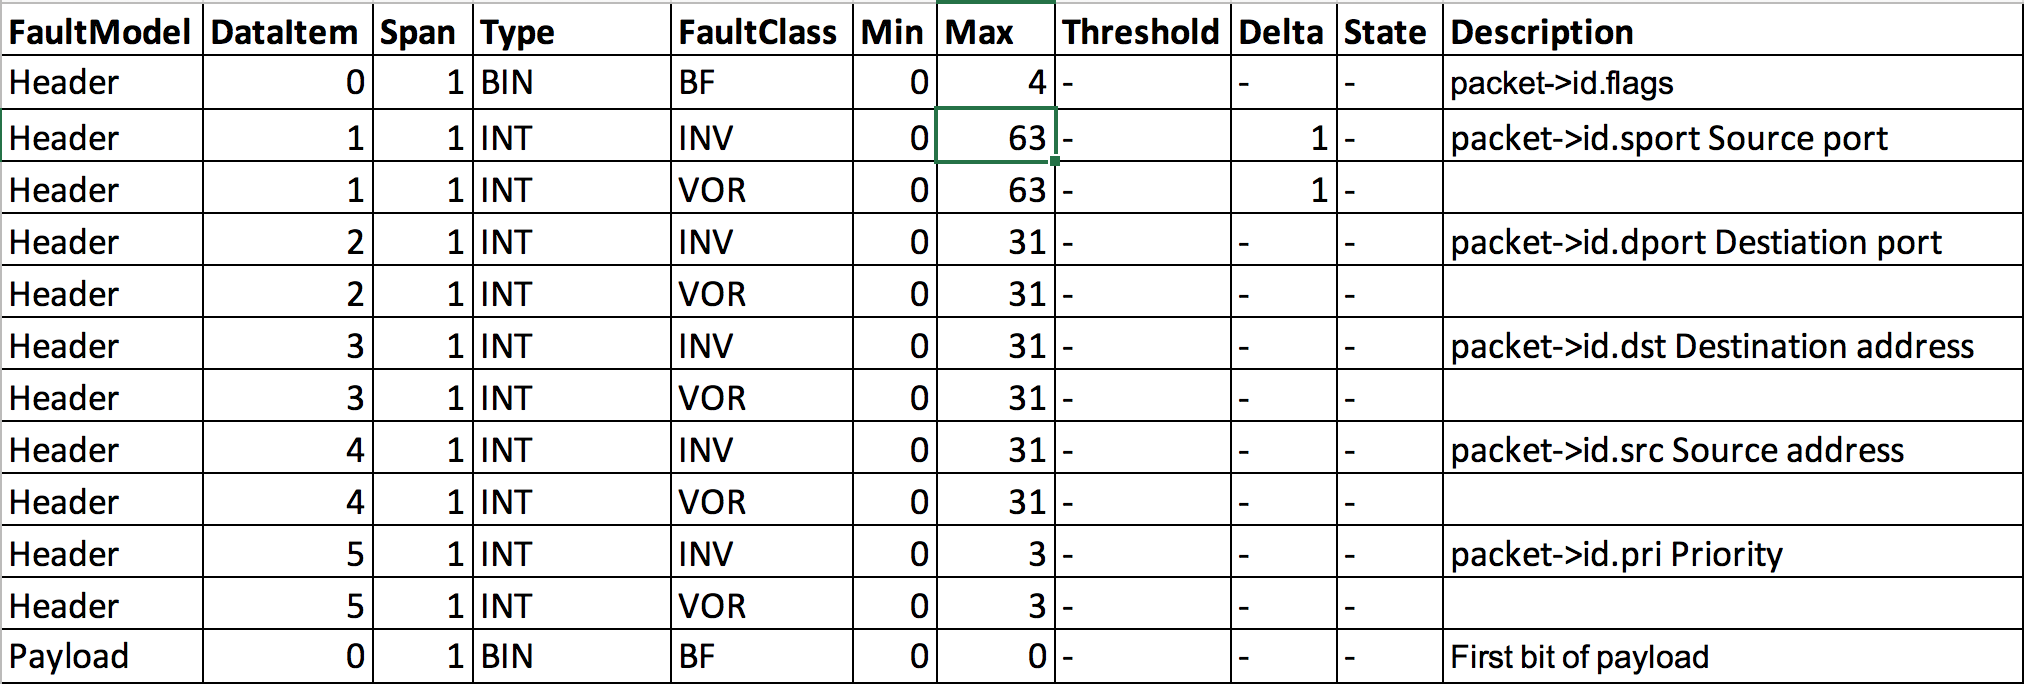
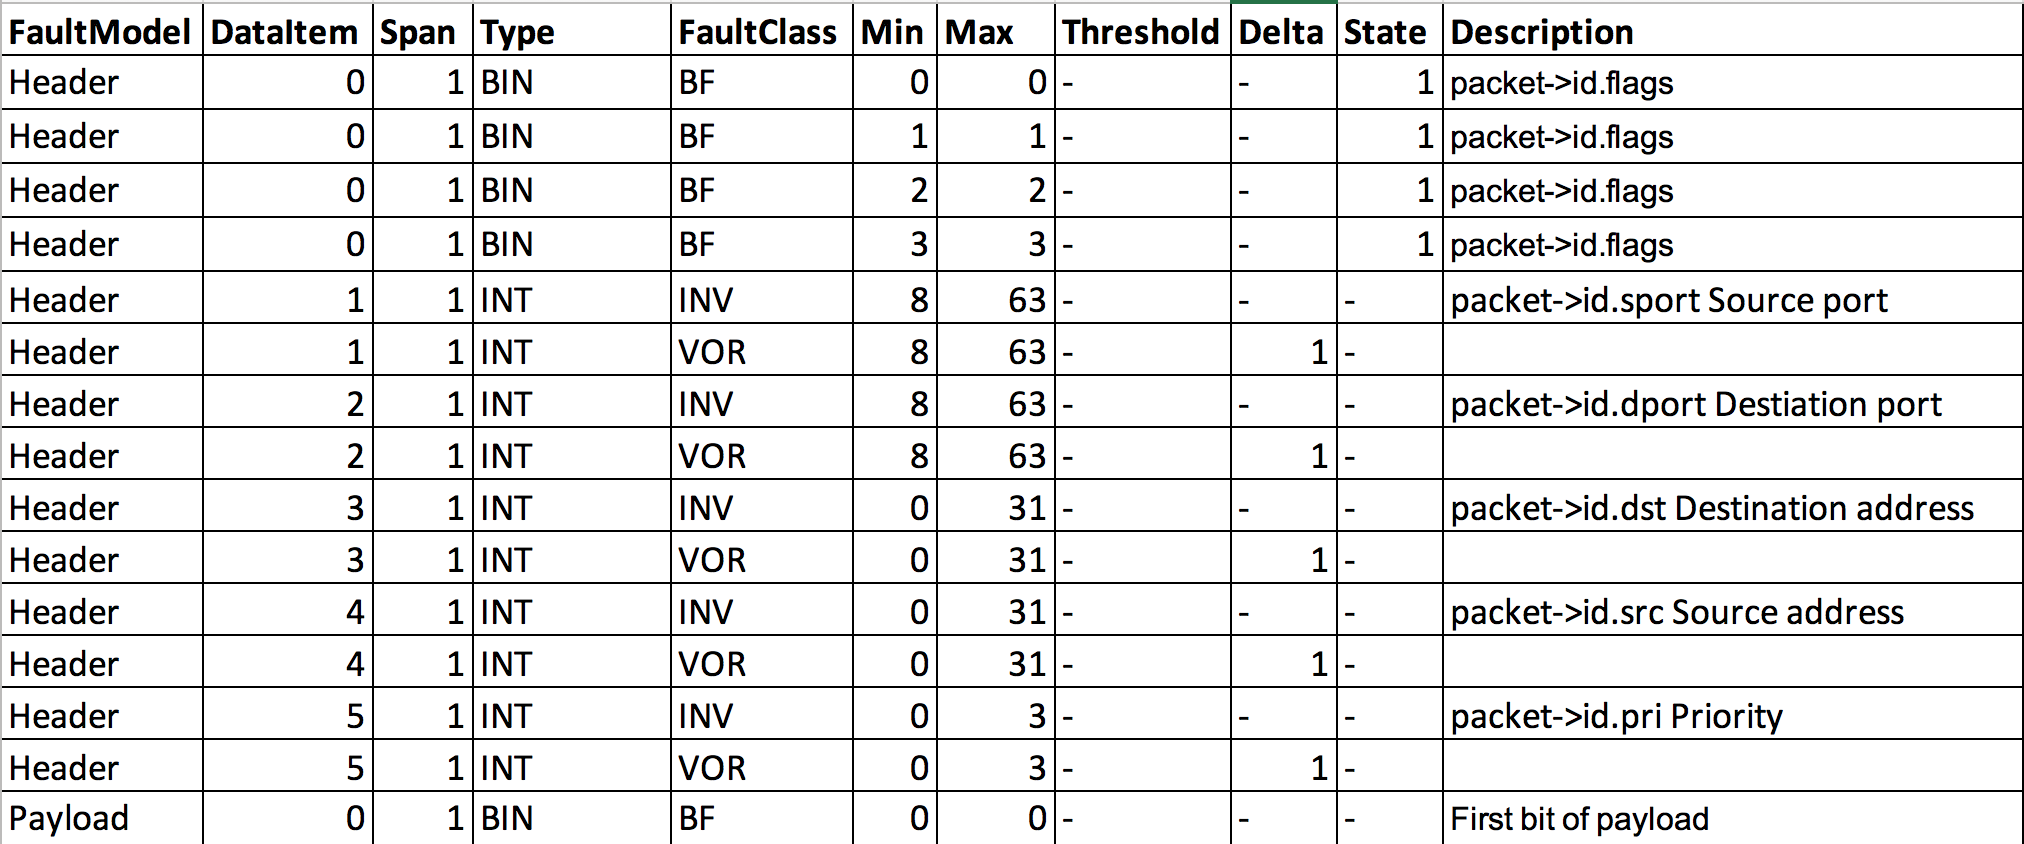
backup

diff --git a/reports/D2/caseStudies_GSL.tex b/reports/D2/caseStudies_GSL.tex
@@ -142,8 +142,8 @@ The data-driven mutation testing process in libgscsp will target the data packet
 \end{figure}
 
 Figure~\ref{fig:csp_faultmodel} introduces an example of the possible fault models to be applied during the data-driven mutation process.
-Fault models labeled \emph{Identifier} target the header of the packet, and \emph{Payload} targets the data of the packet.
-The \emph{Identifier} fault model include mutation operators such as bit-flips (BF), insertion of invalid values (INV), insertion of values out of range (VOR), and insertion of values above threshold (VAT).
+Fault models labeled \emph{Header} target the header of the packet, and \emph{Payload} targets the data of the packet.
+The \emph{Header} fault model include mutation operators such as bit-flips (BF), insertion of invalid values (INV), insertion of values out of range (VOR), and insertion of values above threshold (VAT).
 Instead, the \emph{Payload} fault model consists of applying a bit-flip to the data packet; it is used to verify that the test suite has at least one test case that controls the correct transmission of the content of the packet.
 
 Concerning the flags data item, it has a size of 8 bits, i.e., 8 flags are available. Only 4 flags are currently used:
@@ -153,6 +153,7 @@ Concerning the flags data item, it has a size of 8 bits, i.e., 8 flags are avail
 \item 00000100             XTEA
 \item 00001000             HMAC
 \end{itemize}
+We force each flag to be set to zero by defining a different BF mutation operator with \emph{State=1} for each of the four bits.
 
 \input{listings/csp_integration}
 
